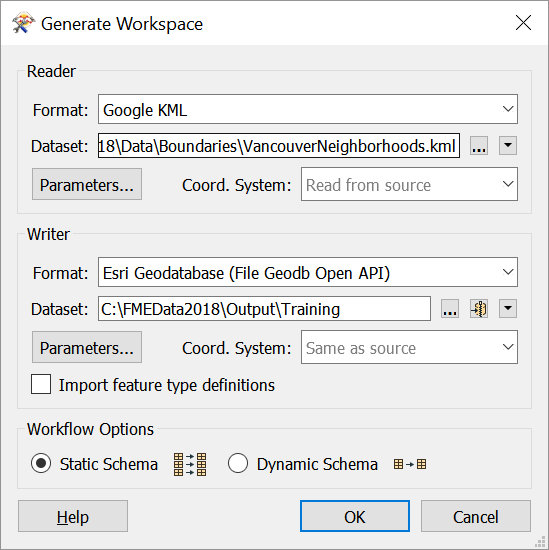
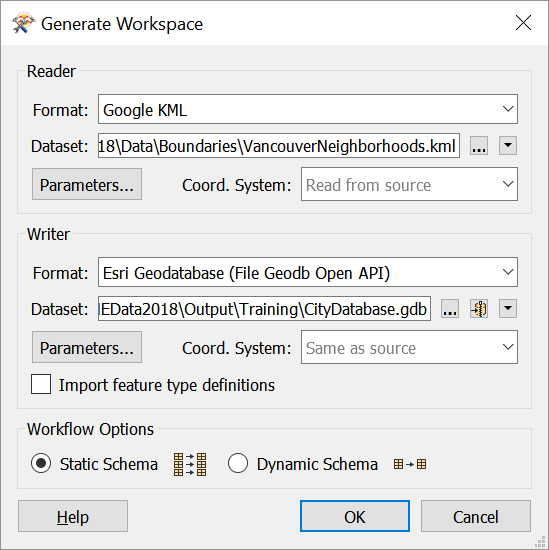
Content updates
Continuing walkthrough for City Government

Changed region(s): [[0.1858, 0.5255, 0.7741, 0.5873]]

diff --git a/Integration3LabExercises/3.13.DataIntegrationScenario.md b/Integration3LabExercises/3.13.DataIntegrationScenario.md
@@ -132,7 +132,7 @@ This walkthrough will reiterate procedures from the previous exercises, in addit
 
 <tr>
 <td style="font-weight: bold">Writer Dataset</td>
-<td style="">C:\FMEData2018\Output\Training</td>
+<td style="">C:\FMEData2018\Output\Training\CityDatabase.gdb</td>
 </tr>
 
 </table>
@@ -206,7 +206,7 @@ Let's turn that fme_feature_type attribute into something more meaningful for ou
 
 Click OK/Apply.
 
-<br>**4) Add Writer Feature Type**
+<br>**4) Add Writer Feature Type for Public Art**
 <br>Now we need a writer feature type for our public art points.
 
 <!--Tip Section-->
@@ -234,7 +234,7 @@ We can add a feature type to a writer in the menu bar under Writers | Add Featur
 
 Click OK. Connect your new feature type to the Output port of your Attribute Manager. Your canvas should look like this:
 
-![PublicArtWriterFeatureType.png](.\Images\PublicArtAdded.png)
+![](.\Images\PublicArtAdded.png)
 
 <br>**5) Add Shapefile Reader**
 <br>Add another reader by clicking Readers | Add Reader, or by clicking an empty space on the canvas and typing the name or file extension of the format you wish to add and picking it from the Quick Add Menu. In this case that would be shp for Esri Shapefile.
@@ -255,7 +255,76 @@ C:\FMEData2018\Data\Transportation\Cycling\BikePaths_S.shp</td>
 
 </table>
 
-The bike path data is split up into three shapefiles by length of the bike path (L for long, M for medium, and S for short). Just like the public art points, we don't need these features sepaerated like that in our database. Therefore, let's change Workflow Options from Individual Feature Types to Merged Feature Types.
+The bike path data is split up into three shapefiles by length of the bike path (L for long, M for medium, and S for short). Just like the public art points, we don't need these features separated like that in our database. Therefore, let's change Workflow Options from Individual Feature Types to Single Merged Feature Type. Because shapefiles contain coordinate system information we don't need to change that here. Your dialog should look like this:
+
+![](.\Images\BikePaths.png)
+
+Click OK. This adds another &lt;All&gt; feature type to our canvas.
+
+If you inspect the reader feature type you'll find the data already has a PathType attribute with values S, M, or L. Therefore we don't need to use AttributeManager to rename fme_feature_type like we did for the public art data. However, we also don't want fme_feature_type to be written to our final data.
+
+We can unexpose it on our reader feature type. Select your bike paths reader feature type and go to the Format Attributes tab. You'll see that fme_feature_type is checked. Simply uncheck it and click OK/Apply:
+
+![](.\Images\BikePathsFormatAttributes.png)
+
+Now if you click the drop-down arrow on your bike paths reader feature type you'll see that fme_feature_type has been removed from the schema as we wanted.
+
+<br>**6) Add Writer Feature Type for Bike Paths**
+<br>Now we need a writer feature type for our bike path lines. Click Writers | Add Feature Type, name your new feature type BikePaths, and give it Geometry type geodb_polyline. Your Feature Type dialog should look like this:
+
+![](.\Images\BikePathWriterFeatureType.png)
+
+Click OK. Connect your new feature type to the Output port of your Attribute Manager. Your canvas should look like this:
+
+![](.\Images\BikePathsAdded.png)
+
+<br>**7) Inspect Output**
+<br>Let's take a look at our data integrated into one geodatabase. You can run your workspace and then open the resulting geodatabase in Data Inspector, or you can click Writers | Redirect to Data Inspector.
+
+When this function is on no data is actually written; instead the results of your translation are sent directly to the Data Inspector. It is useful for checking the results of your translation while your workspace is still in development.
+
+You should see all three layers displayed in Data Inspector, now all stored in the same format in a centralized database.
+
+<br>**7) Example Data Integration Analysis**
+<br>Before you undertake your own analysis using integrated data, let's look at one example.
+
+What if the City Planning Department wanted to know the total length of bike paths and number of public art installations by neighborhood? How would we do this using this workspace?
+
+Take a minute and write or draw out how you would tackle this problem using what you have learned so far. Don't worry if you can't remember the exact name of transformers. Instead focus on outlining the process you would undertake to perform this analysis.
+
+Let's find out if you were right! Note that there is almost always multiple ways to solve a problem in FME, so your solution might still be valid.
+
+<!--Tip Section-->
+
+<table style="border-spacing: 0px">
+<tr>
+<td style="vertical-align:middle;background-color:darkorange;border: 2px solid darkorange">
+<i class="fa fa-info-circle fa-lg fa-pull-left fa-fw" style="color:white;padding-right: 12px;vertical-align:text-top"></i>
+<span style="color:white;font-size:x-large;font-weight: bold;font-family:serif">TIP</span>
+</td>
+</tr>
+
+<tr>
+<td style="border: 1px solid darkorange">
+<span style="font-family:serif; font-style:italic; font-size:larger">
+In production FME workspaces it would be best practice to actually create a new workspace that reads in CityDatabase.gdb and conducts the analysis on the integrated data. This way the process of integrating data from departmental sources and conducting analysis could be separated out. This makes it easier to undertake these processes on their own schedule (e.g. using Schedules on FME Server) and to debug them separately<br><br>
+You can do this if you want, but for simplicity's sake in this walkthrough we will keep working on the same workspace.
+</span>
+</td>
+</tr>
+</table>
+
+Here are the steps we will have to take to conduct this analysis:
+1. Sum the total of bike path lengths by neighborhood.
+2. Sum the count of public art installations by neighborhood.
+3. Output a table or chart to show the results.
+
+NEED TO FLESH THIS OUT
+
+In Workbench we can accomplish this via the following steps:
+1. Add two Reprojector transformers: one after the AttributeManager and one in a new data stream coming out of the Neighborhoods feature type. Choose UTM83-10 as the Destination Coordinate System for both. This will ensure all our data is in the same projection before we do spatial analysis, which is required for our results to be accurate.
+2. Add a StatisticsCalculator after your public art reprojector. This will count the number of public art installations by neighborhood. Select any attribute for Count (it is just counting if there is a value, so any attribute will do). Clear all the other values so they are not generated. Finally, set Group By to NeighborhoodName. The Summary output port here will output a table with the count of public art installations by neighborhood.
+3. Add a LineOnAreaOverlayer after your bike paths Reprojector. Add a StatisticsCalculator after the Reprojector and get the sum of PathLength with Group By set to NeighborhoodName.
 
 ### Additional Procedures
 
@@ -273,7 +342,7 @@ If you add any CSV readers, you might notice they are imported without geometry.
 
 #### Individual Versus Merged Feature Types
 
-Some datasets contain more than one feature type. For example, if you add CommunityMapping.gdb with the default settings you will be presented with a Feature Types To Read dialog. Here you can select which layers from the geodatabase you wish to read in as feature types.
+Some datasets contain more than one feature type. For example, if you add CommunityMap.gdb with the default settings you will be presented with a Feature Types To Read dialog. Here you can select which layers from the geodatabase you wish to read in as feature types.
 
 When you have data like this you can choose to read the data as individual or merged feature types. This option appears only in the Add Reader dialog when you initially add a reader. It cannot be changed after the fact without removing feature types.
 
